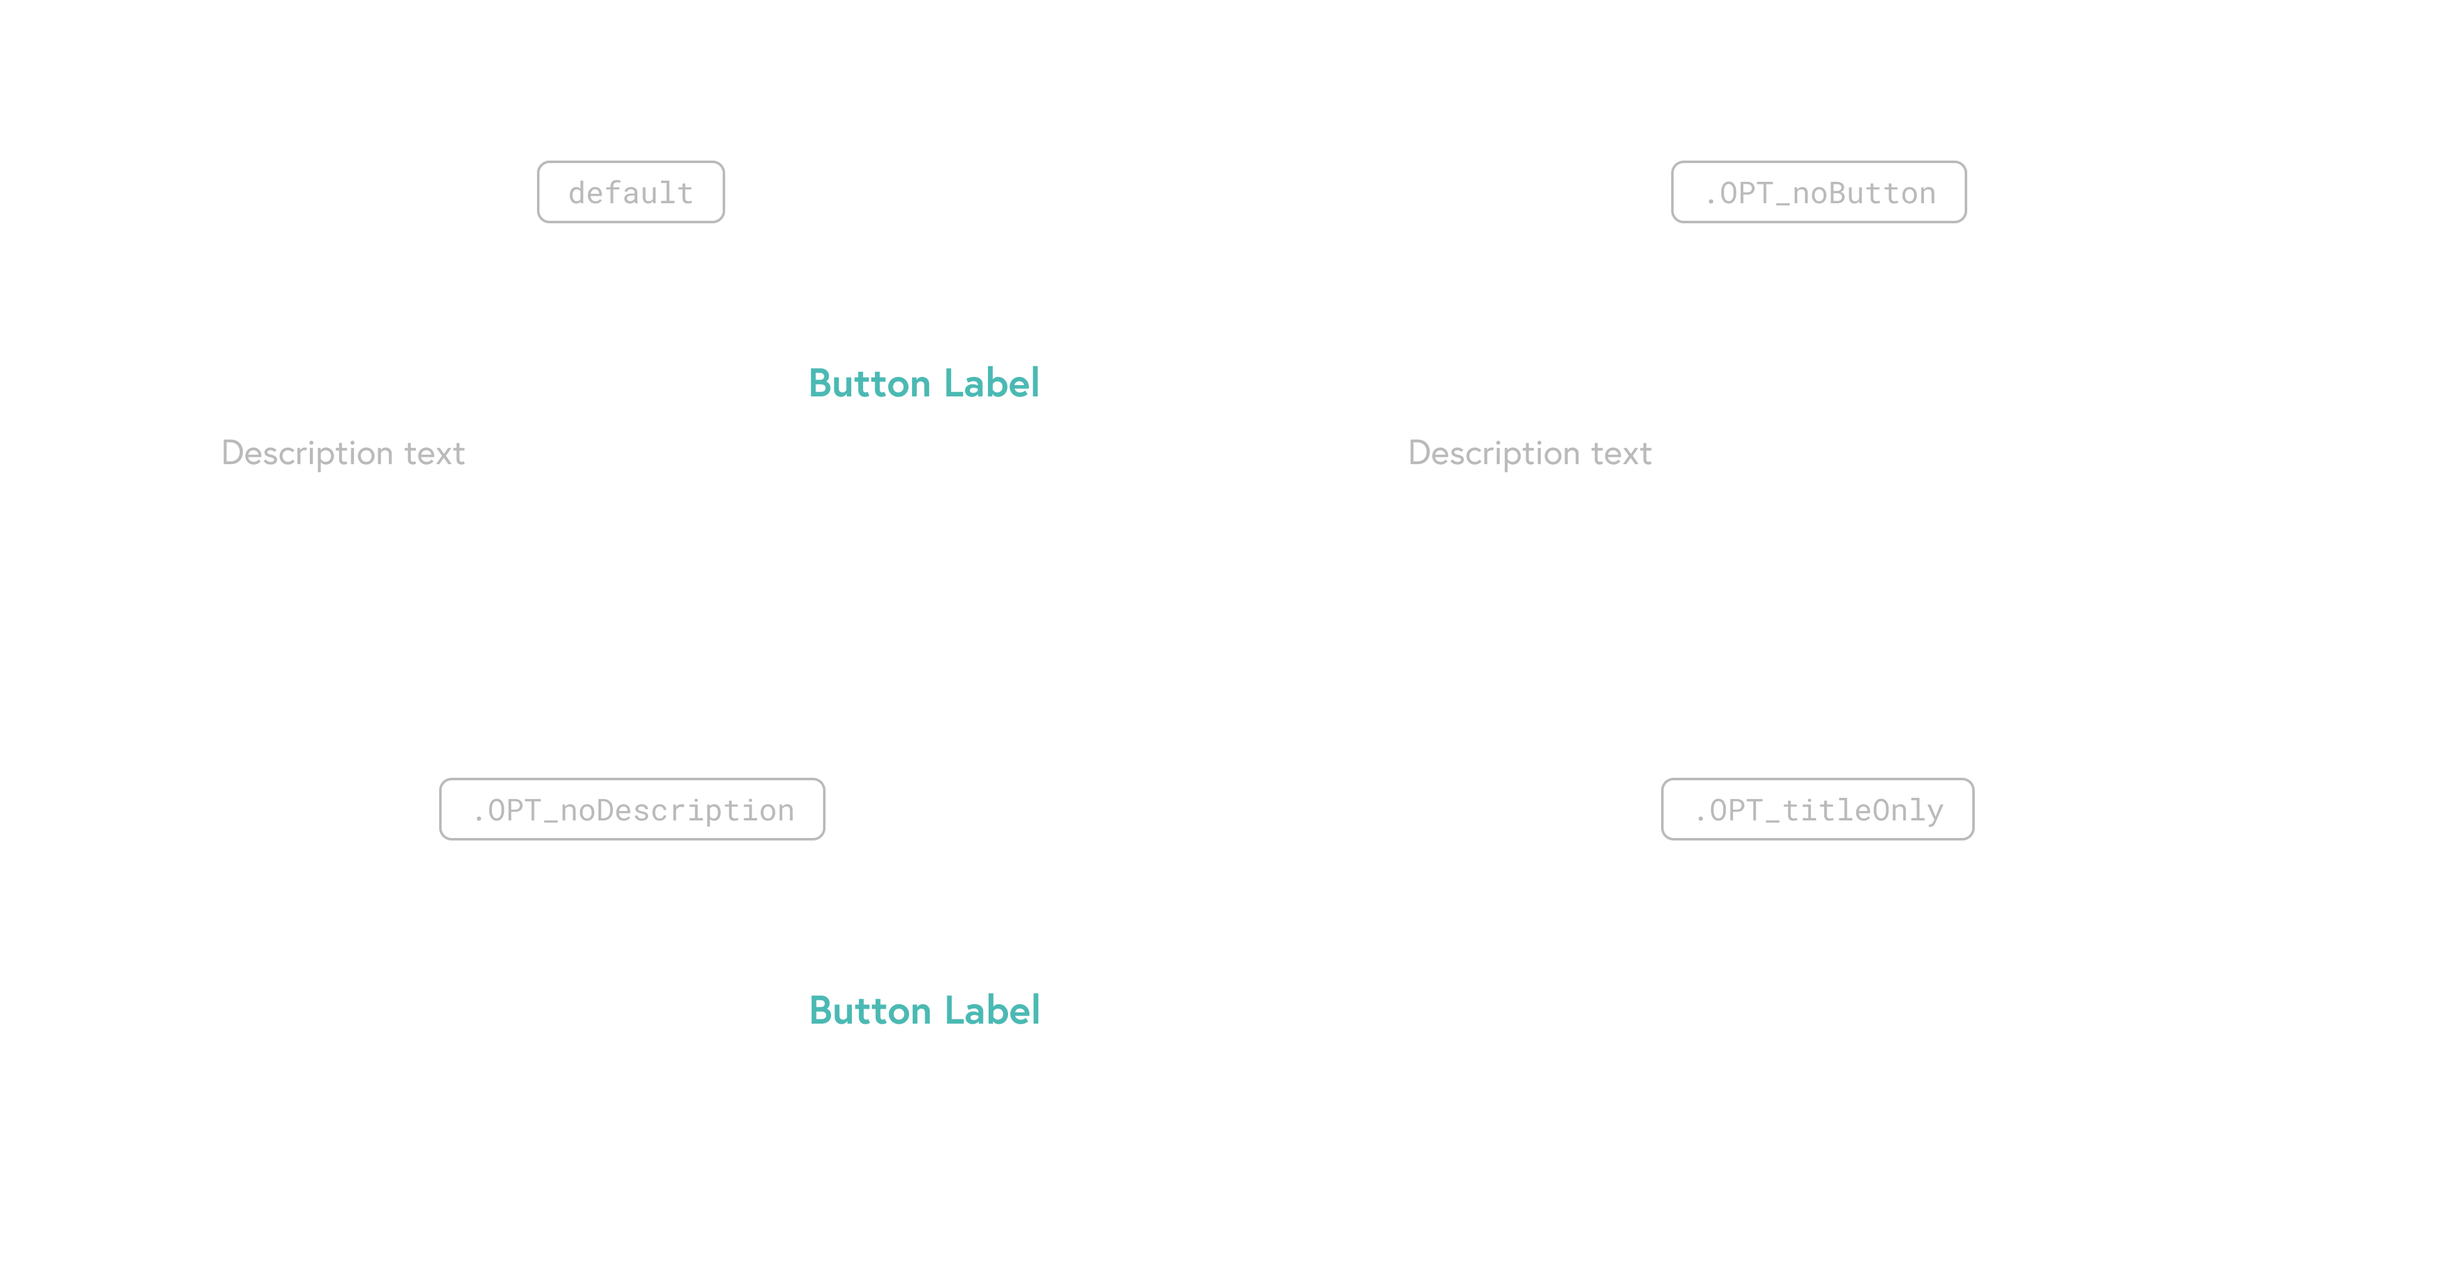
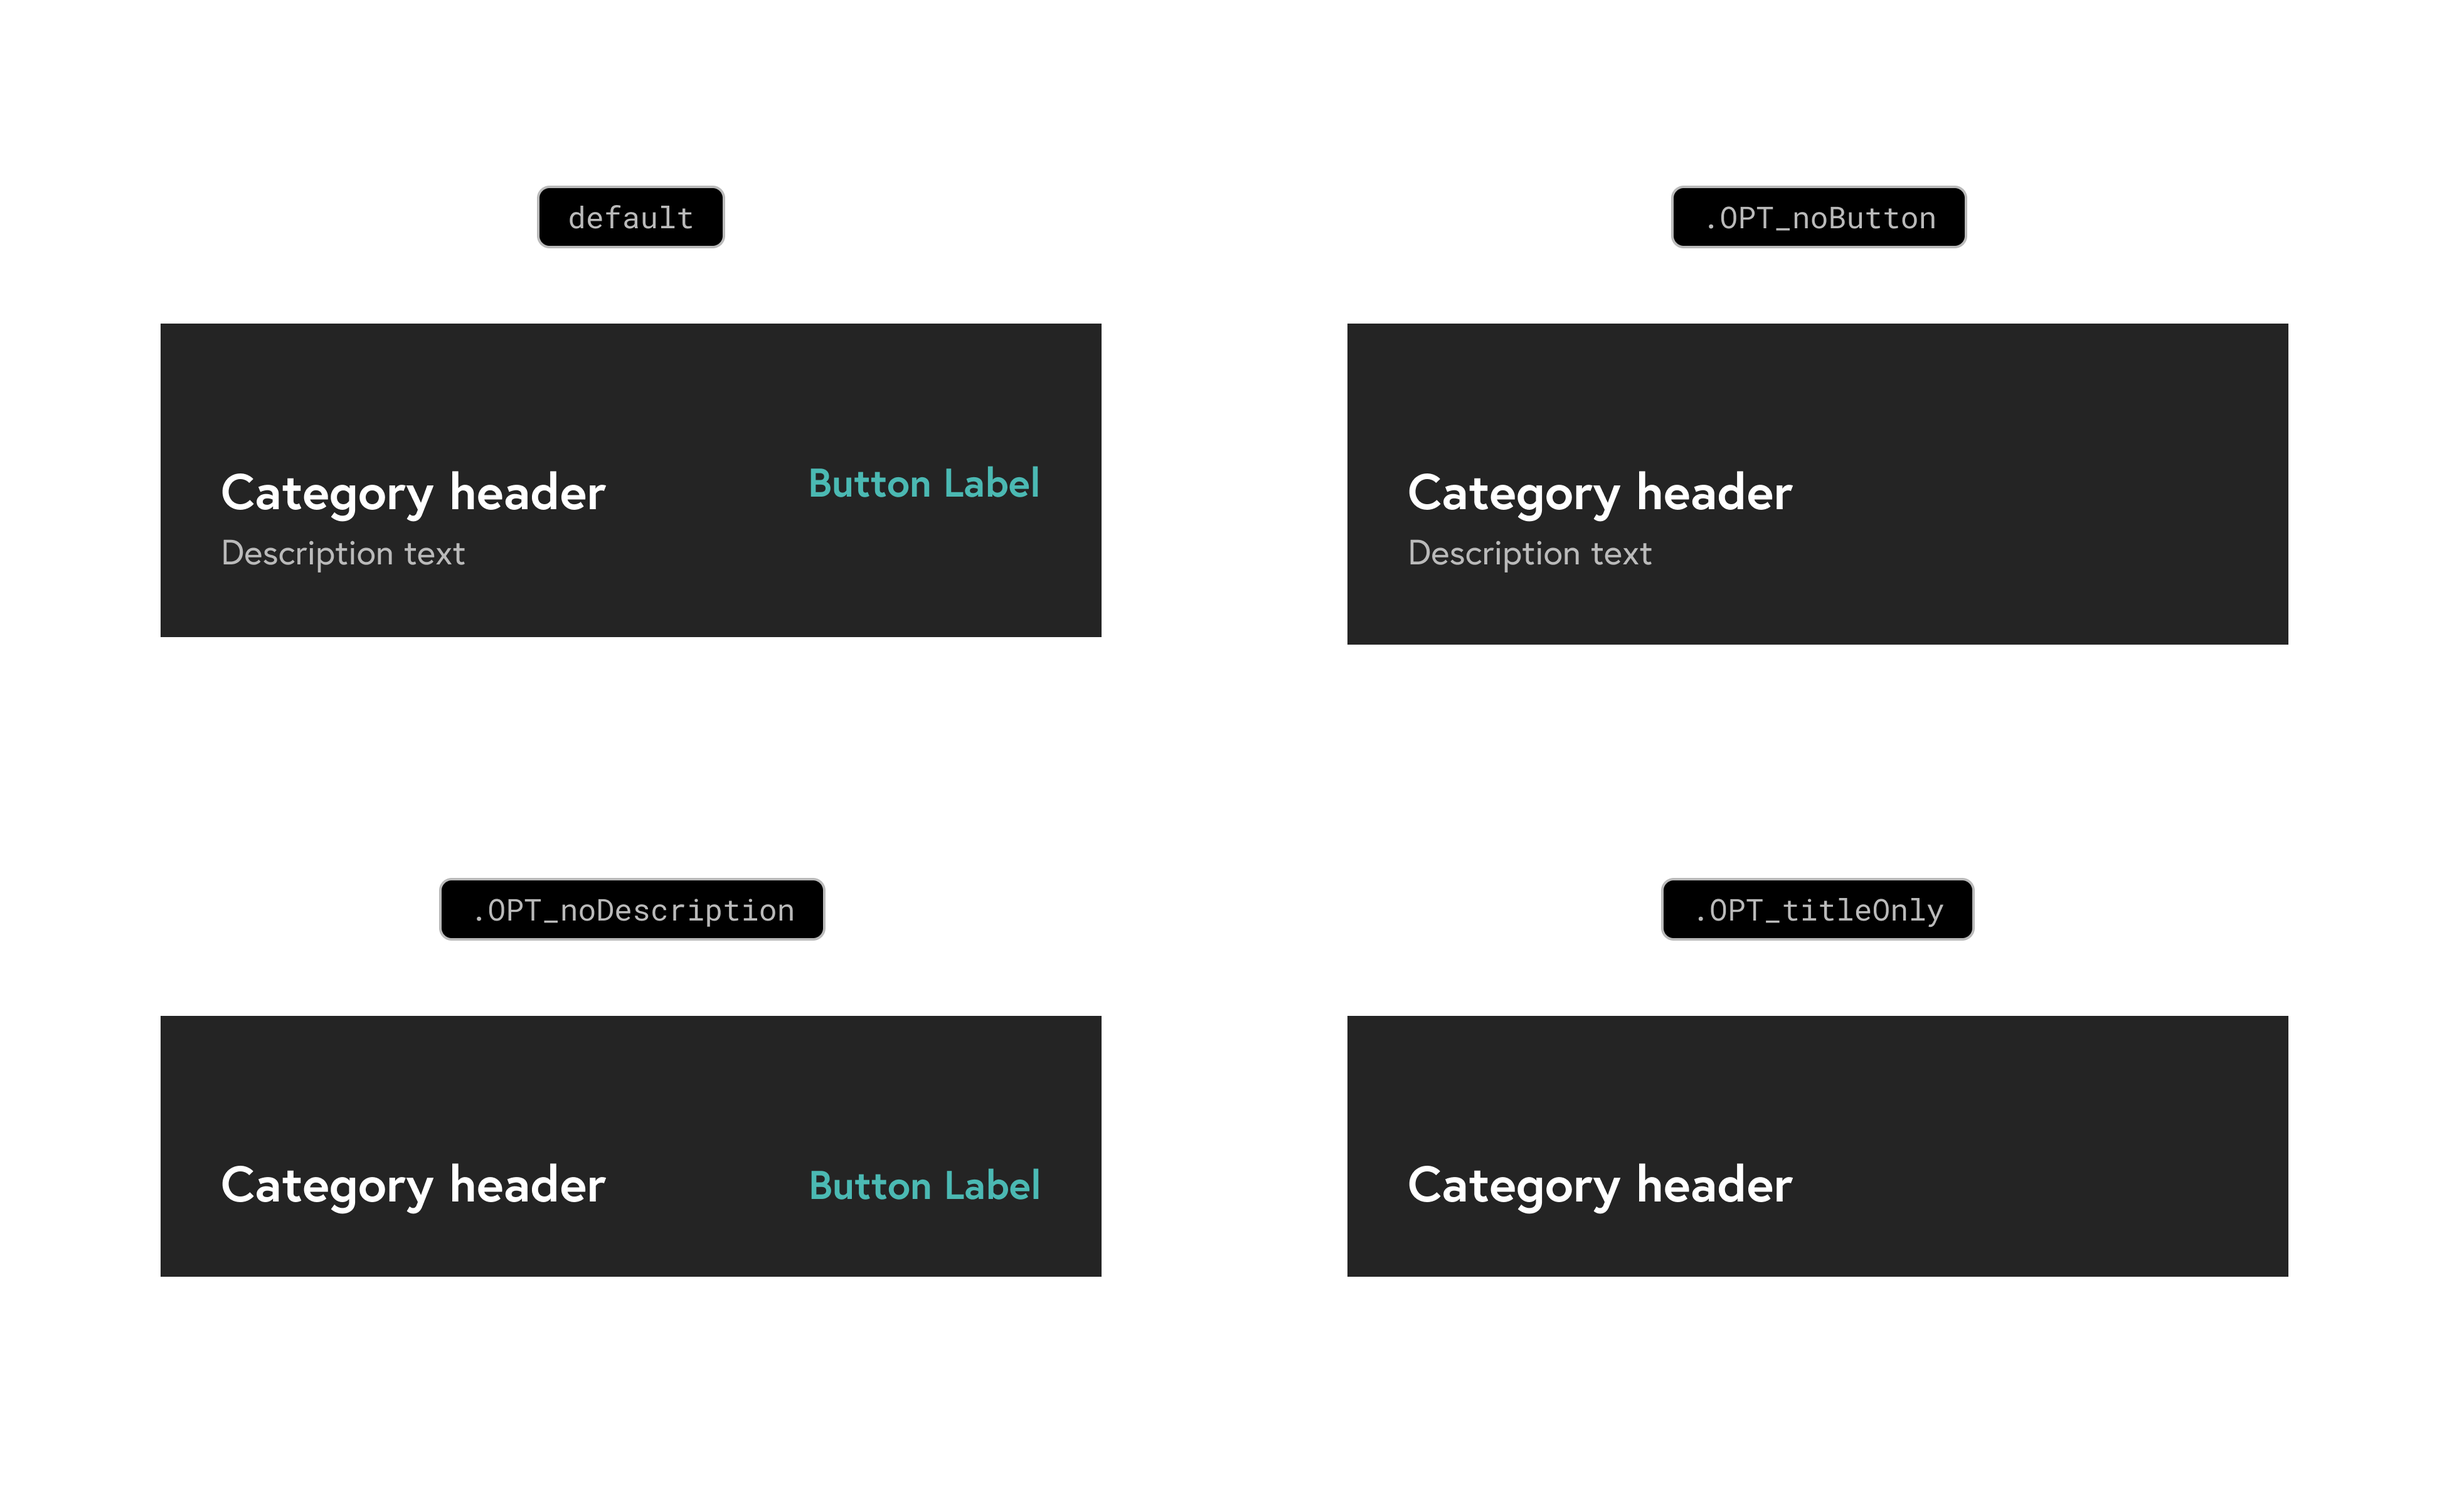
Few assets corrections for P0009 & P000A to use new img background style

diff --git a/docs/_sass/custom/custom.scss b/docs/_sass/custom/custom.scss
@@ -433,10 +433,10 @@ img {
 }
 .bgPattern_01 {
   background-color: transparent;
-  background-image: url('../images/YPL-DOC-image_bg_pattern-light-01.png') !important;
+  background-image: url('../images/YPL-DOC-image_bg_pattern-light-02.png') !important;
   background-position: 0 0;
   background-repeat: repeat;
-  box-shadow: inset 28px 28px 0 0 #fff, inset -28px -28px 0 0 #fff;
+  box-shadow: inset 28px 28px 0 0 #fcfcfc, inset -28px -28px 0 0 #fcfcfc;
 }
 .bgPattern_01.dark_mode {
   background-color: transparent;
@@ -445,8 +445,6 @@ img {
   background-repeat: repeat;
   box-shadow: inset 28px 28px 0 0 #000, inset -28px -28px 0 0 #000;
 }
-
-
 
 
 p>img {

diff --git a/docs/index.md b/docs/index.md
@@ -39,7 +39,7 @@ All designers and Front end devellopers are required to get familiar with Pasta 
           c-18.9,26.7-26.2,51.6-17.5,59.3c1.9,1.7,4.6,2.6,8,2.6c5.6,0,12.8-2.3,21.1-6.8c14.5-7.8,30.5-21,45.1-37.4
           c16.9-19,28.2-36.9,33.6-53.4c3.1-9.8,5.2-19.6-0.7-25C180,66.4,177.3,65.6,173.8,65.6z"/>
       </svg>
-      learn more…
+      <!-- Go → -->
   </div>
 
   <div onclick="location.href='{{site.baseurl}}/farfalle/primitives/';" class="cta-card-black">
@@ -60,7 +60,7 @@ All designers and Front end devellopers are required to get familiar with Pasta 
         C148.7,118.3,137.7,107.2,124.1,107.2z M139.8,48.4c-7.1,0-12.8,5.7-12.8,12.8c0,7.2,5.6,12.8,12.8,12.8s12.8-5.6,12.8-12.8
         C152.6,54.1,147,48.4,139.8,48.4z"/>
     </svg>
-      learn more…
+      <!-- Go → -->
   </div>
 
   <div onclick="location.href='{{site.baseurl}}/farfalle/elements/';" class="cta-card-black">
@@ -77,7 +77,7 @@ All designers and Front end devellopers are required to get familiar with Pasta 
             c-13.2,0-24-10.8-24-24s10.8-24,24-24c13.2,0,24,10.8,24,24S109.4,152,96.2,152z"/>
         </g>
       </svg>
-      learn more…
+      <!-- Go → -->
   </div>
 
 
@@ -103,7 +103,7 @@ All designers and Front end devellopers are required to get familiar with Pasta 
         <path d="M128.4,148.9H86.4c-2,0-3.5-1.6-3.5-3.5l0,0c0-2,1.6-3.5,3.5-3.5h42.1c2,0,3.5,1.6,3.5,3.5l0,0
           C132,147.3,130.4,148.9,128.4,148.9z"/>
       </svg>
-      learn more…      
+      <!-- Go →       -->
   </div>
   <div></div>  
   <div></div>

diff --git a/docs/core/200-farfalle/090-Patterns/180-Navigation.md b/docs/core/200-farfalle/090-Patterns/180-Navigation.md
@@ -55,10 +55,8 @@ nav_order: 180
   </div> 
 </div>
 
-
 <!-- ![Variations]({{ site.baseurl }}/assets/projects/{{ page.project_id }}/images/YPL-DOC-{{ page.project_id }}-{{ page.UID }}-variations_01.png){: .darkenabled} -->
 <!-- ![Variations]({{site.baseurl}}/assets/projects/{{page.project_id}}/images/YPL-DOC-imgPlaceholder-Full.png){: .darkenabled} -->
-
 
 <table id="variants-options">
   <!-- <caption>my caption</caption> -->
@@ -153,7 +151,7 @@ nav_order: 180
 ### Options
 
 
-![Variations]({{ site.baseurl }}/assets/projects/{{ page.project_id }}/images/YPL-DOC-{{ page.project_id }}-{{ page.UID }}-variations_01.png)
+![Variations]({{ site.baseurl }}/assets/projects/{{ page.project_id }}/images/YPL-DOC-{{ page.project_id }}-{{ page.UID }}-variations_01.png){: .darkenabled .bgPattern_01}
 <!-- ![Variations]({{site.baseurl}}/assets/projects/{{page.project_id}}/images/YPL-DOC-imgPlaceholder-Full.png){: .darkenabled} -->
 
 

diff --git a/docs/core/200-farfalle/090-Patterns/190-Header.md b/docs/core/200-farfalle/090-Patterns/190-Header.md
@@ -163,7 +163,7 @@ Variant_Preview_#3
 ### Options
 
 
-![Variations]({{ site.baseurl }}/assets/projects/{{ page.project_id }}/images/YPL-DOC-{{ page.project_id }}-{{ page.UID }}-variations_02.png){: .darkenabled}
+![Variations]({{ site.baseurl }}/assets/projects/{{ page.project_id }}/images/YPL-DOC-{{ page.project_id }}-{{ page.UID }}-variations_02.png){: .darkenabled .bgPattern_01}
 <!-- ![Variations]({{site.baseurl}}/assets/projects/{{page.project_id}}/images/YPL-DOC-imgPlaceholder-Full.png){: .darkenabled} -->
 
 
